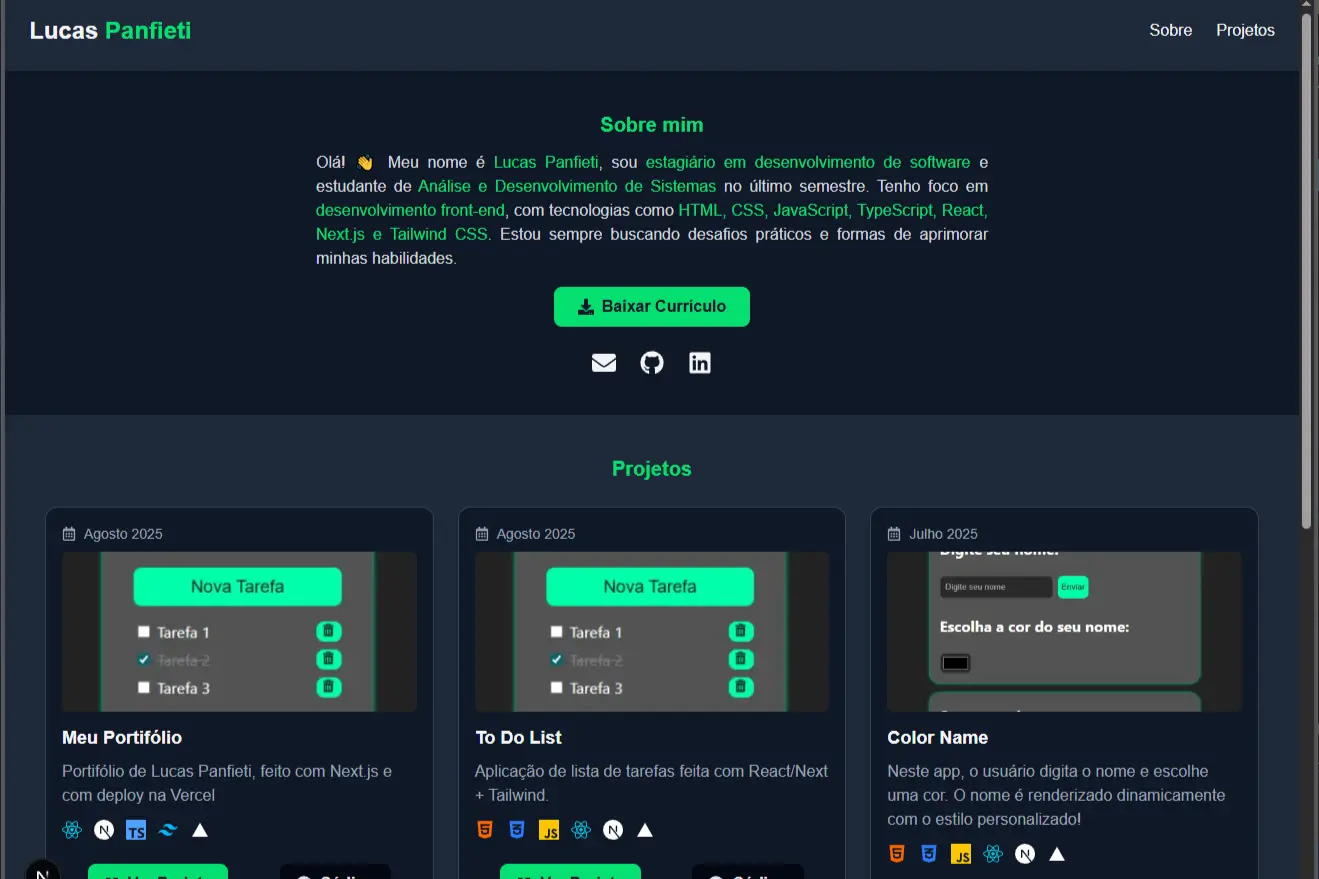
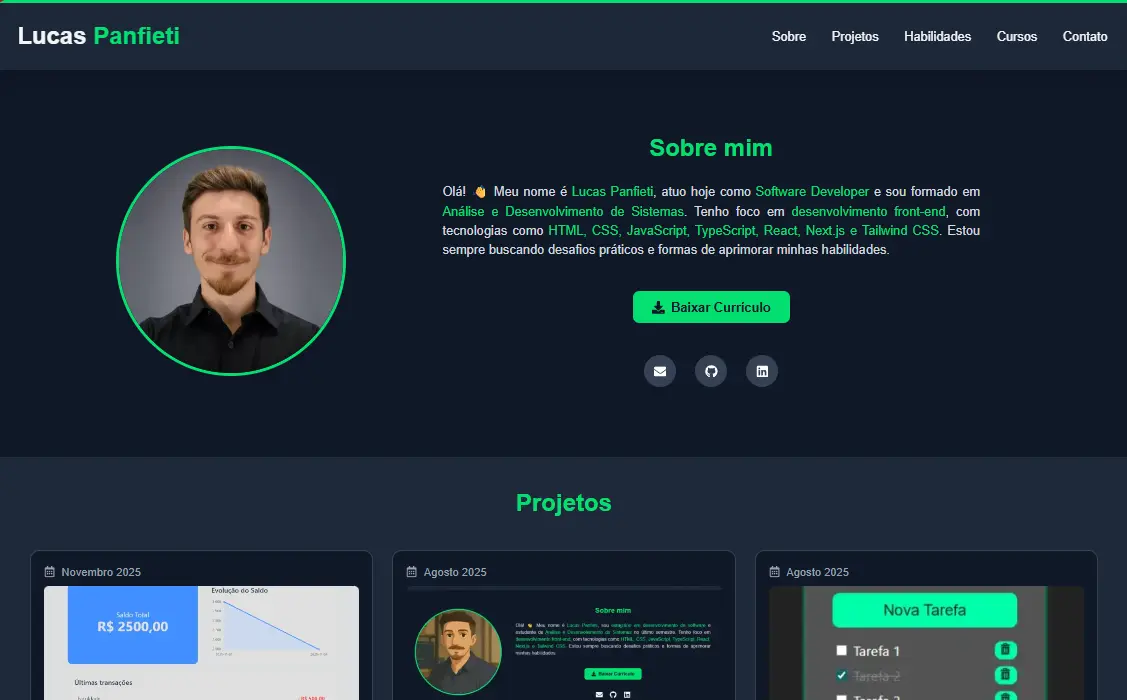
melhorias

diff --git a/src/components/Projetos.tsx b/src/components/Projetos.tsx
@@ -34,7 +34,7 @@ const projects = [
       "Portfólio de Lucas Panfieti, feito com Next.js e com deploy na Vercel",
     link: "https://lucaspanfieti-portfolio.vercel.app/",
     github: "https://github.com/LucasPanfieti/lucaspanfieti.portfolio",
-    image: "/images/projetos/preview.webp",
+    image: "/images/projetos/portifolio.webp",
     techs: ["next", "react", "vercel", "tailwind", "ts"],
     date: "Agosto 2025",
   },
@@ -102,7 +102,7 @@ export default function Projetos() {
         {projects.map((project) => (
           <div
             key={project.name}
-            className="p-4 border border-gray-700 rounded-xl bg-gray-900 shadow hover:shadow-lg hover:shadow-green-400/30 hover:scale-105 transition-transform duration-300"
+            className="p-6 border border-gray-700 rounded-xl bg-gray-900 shadow hover:shadow-lg hover:shadow-green-400/30 hover:scale-105 transition-transform duration-300 "
           >
             {/* Data do projeto */}
             <div className="flex items-center gap-2 text-gray-400 text-sm mb-2">
@@ -115,7 +115,7 @@ export default function Projetos() {
               alt={project.name}
               width={400} // largura original da imagem
               height={200} // altura original da imagem
-              className="w-full h-40 object-cover rounded-md mb-3"
+              className="w-full h-fit object-contain rounded-lg mb-3 border-1 border-gray-800"
             />
             <h3 className="font-bold text-lg text-left">{project.name}</h3>
             <p className="text-gray-400 mt-2 text-justify">
@@ -151,7 +151,7 @@ export default function Projetos() {
               <a
                 href={project.link}
                 target="_blank"
-                className="mt-3 inline-flex items-center justify-center gap-2 bg-green-400 text-gray-900 font-semibold px-4 py-2 rounded-lg hover:bg-green-600 transition mx-auto"
+                className="mt-4 mb-2 inline-flex items-center justify-center gap-2 bg-green-400 text-gray-900 font-semibold px-4 py-2 rounded-lg hover:bg-green-600 transition mx-auto"
               >
                 <RiShareBoxFill />
                 Ver Projeto
@@ -160,7 +160,7 @@ export default function Projetos() {
                 <a
                   href={project.github}
                   target="_blank"
-                  className="mt-3 inline-flex items-center justify-center gap-2 bg-gray-950 text-gray-200 font-semibold px-4 py-2 rounded-lg hover:bg-gray-800 transition mx-auto"
+                  className="mt-4 mb-2 inline-flex items-center justify-center gap-2 bg-gray-950 text-gray-200 font-semibold px-4 py-2 rounded-lg hover:bg-gray-800 transition mx-auto"
                 >
                   <FaGithub className="text-gray-200" /> Código
                 </a>

diff --git a/src/components/Cursos.tsx b/src/components/Cursos.tsx
@@ -20,11 +20,11 @@ const certificados = [
   {
     name: "Tecnólogo - Análise e Desenvolvimento de Sistemas",
     instituicao: "Anhanguera",
-    data: "Dezembro 2025",
+    data: "Ago 2023 - Dez 2025",
     description: "",
-    horas: "",
+    horas: "2100h",
     image: "/images/certificados/anhanguera.webp",
-    link: "",
+    link: "https://www.linkedin.com/in/lucas-panfieti/overlay/Education/906515643/treasury/?profileId=ACoAAC7PsTwBuuMPqYZPH7WMySMIlP3eK8iUghE",
     icon: "/images/certificados/iconAnhanguera.ico",
     colorIcon: "#f14e12",
   },
@@ -87,7 +87,7 @@ export default function Cursos() {
               alt={certificado.name}
               width={400}
               height={200}
-              className="w-full h-40 object-cover rounded-md mb-3"
+              className="w-full h-fit object-contain rounded-lg mb-3"
             />
 
             {/* Nome e instituição */}
@@ -98,7 +98,7 @@ export default function Cursos() {
                   alt={certificado.instituicao}
                   width={25}
                   height={25}
-                  className="rounded-full"
+                  className="w-6 h-6 object-contain"
                 />
               )}
               <span
@@ -125,7 +125,7 @@ export default function Cursos() {
                   href={certificado.link}
                   target="_blank"
                   rel="noopener noreferrer"
-                  className="mt-3 inline-flex items-center justify-center gap-2 bg-green-400 text-gray-900 font-semibold px-4 py-2 rounded-lg hover:bg-green-600 transition mx-auto"
+                  className="mt-3 mb-2 inline-flex items-center justify-center gap-2 bg-green-400 text-gray-900 font-semibold px-4 py-2 rounded-lg hover:bg-green-600 transition mx-auto"
                 >
                   <RiShareBoxFill />
                   Ver Certificado

diff --git a/src/components/Footer.tsx b/src/components/Footer.tsx
@@ -3,7 +3,7 @@ export default function Footer() {
     <footer id="direitos" className="p-6 bg-gray-950 text-center">
       {/* Direitos reservados */}
       <p className="text-gray-500 ">
-        © 2025 Lucas Panfieti. Todos os direitos reservados.
+        © 2026 Lucas Panfieti. Todos os direitos reservados.
       </p>
     </footer>
   );
